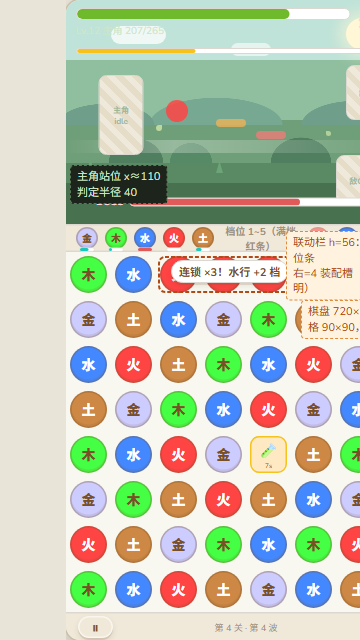
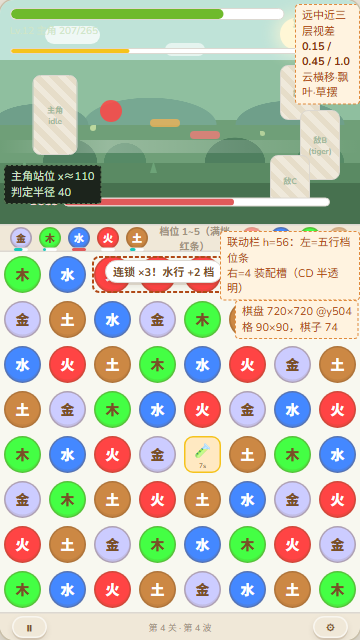
docs(design): 按审核整改瘫痪恢复发射门控与线稿布局

diff --git a/docs/design/ui/05-result.html b/docs/design/ui/05-result.html
@@ -17,18 +17,18 @@
   <div class="callout" style="left:650px;top:150px;">胜利横幅<br>success 绿 + 彩带粒子</div>
 
   <!-- 经验结算卡 -->
-  <div style="position:absolute;left:60px;top:340px;width:600px;height:560px;background:#fff;border:3px solid var(--ai-border);border-radius:var(--radius);box-shadow:var(--clay-shadow-sm);padding:24px;">
+  <div style="position:absolute;left:60px;top:340px;width:600px;height:580px;background:#fff;border:3px solid var(--ai-border);border-radius:var(--radius);box-shadow:var(--clay-shadow-sm);padding:24px;">
     <div style="font-size:30px;font-weight:900;text-align:center;">第 3 关 · 结算</div>
-    <div style="display:flex;justify-content:space-between;font-size:26px;margin-top:20px;"><span>击杀敌人</span><b>129 只</b></div>
-    <div style="display:flex;justify-content:space-between;font-size:26px;margin-top:16px;"><span>最高连锁</span><b>×4</b></div>
-    <div style="display:flex;justify-content:space-between;font-size:26px;margin-top:16px;"><span>击杀经验累计</span><b>+4226 exp</b></div>
-    <div style="display:flex;justify-content:space-between;font-size:26px;margin-top:16px;"><span>通关奖励（50×3）</span><b>+150 exp</b></div>
-    <div style="border-top:2px dashed var(--ai-border);margin-top:24px;padding-top:24px;">
+    <div style="display:flex;justify-content:space-between;font-size:26px;margin-top:14px;"><span>击杀敌人</span><b>129 只</b></div>
+    <div style="display:flex;justify-content:space-between;font-size:26px;margin-top:12px;"><span>最高连锁</span><b>×4</b></div>
+    <div style="display:flex;justify-content:space-between;font-size:26px;margin-top:12px;"><span>击杀经验累计</span><b>+4226 exp</b></div>
+    <div style="display:flex;justify-content:space-between;font-size:26px;margin-top:12px;"><span>通关奖励（50×3）</span><b>+150 exp</b></div>
+    <div style="border-top:2px dashed var(--ai-border);margin-top:16px;padding-top:16px;">
       <div style="display:flex;justify-content:space-between;font-size:28px;"><span><b>Lv.12 → 16</b></span><b style="color:var(--ai-warning);">连升 4 级</b></div>
       <div class="bar exp" style="margin-top:12px;"><i style="width:31%"></i></div>
-      <div style="font-size:22px;color:var(--ai-text-2nd);margin-top:8px;">升级回满 HP · 共得 4376，扣 831/937/1048/1162 → Lv.16 余 398 · 距 Lv.17 还需 882（条 31%）</div>
+      <div style="font-size:20px;color:var(--ai-text-2nd);margin-top:8px;">升级回满 HP · 共得 4376，扣 831/937/1048/1162 → Lv.16 余 398 · 距 Lv.17 还需 882（条 31%）</div>
     </div>
-    <div class="ph" style="height:70px;margin-top:14px;font-size:22px;">升级动效占位（金光 / 弹跳）</div>
+    <div class="ph" style="height:56px;margin-top:14px;font-size:22px;">升级动效占位（金光 / 弹跳）</div>
   </div>
 
   <!-- 解锁提示 -->
@@ -60,13 +60,13 @@
 
   <div style="position:absolute;left:90px;top:130px;width:540px;height:150px;background:var(--ai-error);border-radius:var(--radius);box-shadow:var(--clay-shadow);display:flex;align-items:center;justify-content:center;color:#fff;font-size:64px;font-weight:900;letter-spacing:12px;border:4px solid rgba(255,255,255,.6);">战 败</div>
 
-  <div style="position:absolute;left:60px;top:340px;width:600px;height:460px;background:#fff;border:3px solid var(--ai-border);border-radius:var(--radius);box-shadow:var(--clay-shadow-sm);padding:32px;">
+  <div style="position:absolute;left:60px;top:340px;width:600px;height:430px;background:#fff;border:3px solid var(--ai-border);border-radius:var(--radius);box-shadow:var(--clay-shadow-sm);padding:24px;">
     <div style="font-size:30px;font-weight:900;text-align:center;">第 4 关 · 第 6 波</div>
-    <div style="display:flex;justify-content:space-between;font-size:26px;margin-top:28px;"><span>本局击杀</span><b>53 只</b></div>
-    <div style="display:flex;justify-content:space-between;font-size:26px;margin-top:16px;"><span>本局获得经验</span><b>+1884 exp（保留）</b></div>
-    <div style="display:flex;justify-content:space-between;font-size:26px;margin-top:16px;"><span>剩余主角 HP</span><b style="color:var(--ai-error);">0</b></div>
-    <div class="ph" style="height:130px;margin-top:28px;font-size:24px;">鼓励文案占位<br>（「练到 Lv.14 再来挑战！」）</div>
-    <div style="font-size:22px;color:var(--ai-text-2nd);margin-top:20px;">失败无惩罚：等级/经验/解锁全部保留（D14）</div>
+    <div style="display:flex;justify-content:space-between;font-size:26px;margin-top:20px;"><span>本局击杀</span><b>53 只</b></div>
+    <div style="display:flex;justify-content:space-between;font-size:26px;margin-top:14px;"><span>本局获得经验</span><b>+1884 exp（保留）</b></div>
+    <div style="display:flex;justify-content:space-between;font-size:26px;margin-top:14px;"><span>剩余主角 HP</span><b style="color:var(--ai-error);">0</b></div>
+    <div class="ph" style="height:110px;margin-top:20px;font-size:24px;">鼓励文案占位<br>（「练到 Lv.14 再来挑战！」）</div>
+    <div style="font-size:22px;color:var(--ai-text-2nd);margin-top:14px;">失败无惩罚：等级/经验/解锁全部保留（D14）</div>
   </div>
 
   <div class="btn" style="position:absolute;left:110px;top:870px;width:500px;height:110px;font-size:36px;">再战一次</div>

diff --git a/docs/design/ui/03-loadout.html b/docs/design/ui/03-loadout.html
@@ -27,16 +27,16 @@
   </div>
 
   <!-- 出战信息 -->
-  <div style="position:absolute;left:460px;top:140px;right:32px;height:330px;background:var(--ai-bg-2nd);border:3px solid var(--ai-border);border-radius:var(--radius);padding:20px;">
+  <div style="position:absolute;left:460px;top:140px;right:32px;height:352px;background:var(--ai-bg-2nd);border:3px solid var(--ai-border);border-radius:var(--radius);padding:20px;">
     <div style="font-size:28px;font-weight:900;">出战信息</div>
-    <div style="font-size:22px;line-height:1.7;margin-top:12px;">
+    <div style="font-size:20px;line-height:1.35;margin-top:10px;">
       关卡：第 4 关 · 雾隐山道<br>
       波次：10 波，第 10 波为关底 Boss<br>
       敌人：slime / fox / zombie /<br>
       　　　snake / tiger<br>
       建议等级：Lv.30+
     </div>
-    <div class="chip" style="margin-top:8px;font-size:20px;">⚠ 等级低于建议</div>
+    <div class="chip" style="margin-top:10px;font-size:20px;">⚠ 等级低于建议</div>
   </div>
 
   <!-- 4 装配槽（D6） -->

diff --git a/docs/changelog.md b/docs/changelog.md
@@ -13,3 +13,6 @@
 - M1 三消棋盘可玩原型完成：`index.html` + `scripts/{core/{loop,layout,input},board/{grid,items,engine},ui/render,main}.js`（720×1280 纯 Canvas，状态机 IDLE/SWAPPING/REBOUND/RESOLVING/FALLING/PARALYZED，mulberry32 固定种子，消除/连锁/下落补位/四连五连掉落消耗品/10s 超时/死局恢复链）。单测 `tests/board.test.mjs` 11/11 通过（`node --test`），含终态一致性与固定种子回归。浏览器端经 CDP（Edge 155 --remote-debugging-port + Node WebSocket 直连）验证：模块加载、render()、五行棋子色像素命中、pointer 拖拽交换与消除动画全通，无页面异常。
 - 环境坑（重要）：Python 3.14 `http.server` 在 Windows 上 `.js` 返回 `text/plain`（mimetypes 读注册表被污染），浏览器 module script 被 MIME 校验拒绝 → 页面全黑 + `Failed to fetch dynamically imported module`，Node 单测却全绿，极难定位。已改用 `node .tmp/dev-server.mjs`（端口 8932，显式 text/javascript）。另：本机 Edge `--dump-dom` 对 http URL 输出 0 字节、`--headless=new` 截图静默不写盘；浏览器内错误读取统一走 CDP `Runtime.evaluate`。
 - M1 原型部署 GitHub Pages:仓库 https://github.com/Luckybbbbb/ycfs3-ssww(公开),站点 https://luckybbbbb.github.io/ycfs3-ssww/。分两笔提交(docs(design) 设计文档与线稿 / feat(board) M1 原型与单测),Pages 源 master 根目录,页面与模块 JS 经服务端验证可达(GitHub Pages 的 .js MIME 正确,无本地 python http.server 污染问题)。调试残留 probe*.html 已删除,.tmp/ 不入库。
+- 按 REQ-SSWW-DESIGN-v0.1-05 审核（RULING=REJECTED，一 P1 + 三 P2）整改：瘫痪态补齐无道具恢复出口（02 第 8 节/FR-2.6：瘫痪态道具倒计时继续 + 每 2s 定时重试一轮无上限，无道具死局注入例 seed=7/42/99 实测 2.00s 恢复，M1 engine 同步实现并新增单测，12/12 通过）；03 文档 4.6 自动释放条件补档位门控（发射=CD 就绪且档位≥1 且目标存活），Boss 例补「0.75~2.00 火行重新充至 5 档」前提与「档位 0 不发射」对照例；min/max 视口截图重摄（根因：Edge 最小窗宽 clamp 致 --window-size=360 失效，改 CDP deviceMetricsOverride mobile:false 精确视口，min 图满幅 8 列与底栏完整）；03-loadout 出战信息面板（188px 内容宽折行溢出，字号 20/行高 1.35/面板 352）与 05-result 胜利卡（高度 580/动效块 56）、失败卡（430/padding 24）布局修复，全部经 CDP 布局断言（内容底<面板底<相邻元素顶），4 张截图按 manifest 口径重摄并核对 SHA。
+- 按 REQ-SSWW-DESIGN-v0.1-06 审核（RULING=REJECTED，两 P2 + 一计数更正）整改：02 文档第 7 节状态机图补 PARALYZED 一等状态与自循环转移、第 7/8 节统一洗牌触发入口（普通死局=IDLE 终态校验；瘫痪态重试=PARALYZED 内部转移不经过 IDLE，失败保留下一轮定时触发），FR-2.6 同步；max 视口截图重摄（根因：同文档 #fit hash 变更为 fragment 导航不重新执行 fit 脚本，URL 加 cache-bust 强制完整加载；CDP 实测 phone/inner 1440×2560 scale(2)、底栏 y2448~2560、棋子 148px=74×2）；候选变化计数下轮起按 11 变/14 不变口径。
+- REQ-SSWW-DESIGN-v0.1-07 裁决 **RULING=APPROVED**（receipt validation=PASS、cli_exit_code=0，session 01a1438c 全程 RESUME）：设计文档批次 v0.1（25 项候选）正式作为后续开发依据；数值仍按草案管理，体感与实现效果在 M1/M2 验收，M5 完成正式布局回归。审核链 ycfs3-design-v0.1 共 7 轮（01 REJECTED → 02 REJECTED → 03 REJECTED → 04 传输失败 → 05 REJECTED → 06 REJECTED → 07 APPROVED）。

diff --git a/docs/design/ui/preview/manifest.md b/docs/design/ui/preview/manifest.md
@@ -6,13 +6,13 @@
 |---|---|---|
[11 lines of base64/hex data omitted]
 
-fit 模式已核验：min 图底栏（视口 y612~640）与棋盘右缘完整可见；max 图全视口渲染。DPR=1（headless 默认）。
+fit 模式已核验（REQ-05 整改后重摄，CDP setDeviceMetricsOverride mobile:false 精确 360×640/1440×2560，规避 Edge 最小窗宽 clamp——此前 --window-size=360 被抬升致 66px 偏移与右列裁切）：min 图左缘 x=0 即棋盘底色（无偏移）、8 列棋子与底栏（视口 y612~640）完整、右缘 x=359 在画布内；max 图全视口渲染。DPR=1。主图（01~05）为窗口 1600×1500 正常浏览模式整页（含全部状态卡与说明栏）。
 
[1 lines of base64/hex data omitted]
 

diff --git a/docs/design/03-主角技能设计.md b/docs/design/03-主角技能设计.md
@@ -112,7 +112,7 @@ CD 未就绪 → 档位保留，继续累积（封顶 5）
 
 ### 4.6 击杀边界数字例（TDD 第 14 条；直接伤害与含元素能力完整伤害分开标注）
 
-- 时间基准（全文统一）：敌人停在停位距主角 450px；弹速 600 → **飞行 0.75s**；CD 就绪且目标存活即发射（发射后 0.75s 命中）；周期跳伤在**全局整秒边界**结算（t=1,2,3…），灼烧存活才生效；同刻顺序=命中 → 跳伤 → 自动释放（4.4 节）。
+- 时间基准（全文统一）：敌人停在停位距主角 450px；弹速 600 → **飞行 0.75s**；自动释放条件 = **CD 就绪 且 对应元素档位 ≥1 且 目标存活**（发射后 0.75s 命中）；**档位门控与 CD 门控并列缺一不可**——每次发射消耗该元素全部档位（充能清零，4.1 节），若发射后至下次判定前该元素无新的消除充能，即使 CD 就绪也**不发射**（档位 0）。周期跳伤在**全局整秒边界**结算（t=1,2,3…），灼烧存活才生效；同刻顺序=命中 → 跳伤 → 自动释放（4.4 节）。
 - 第 1 关第 1 波 slime：`HP = 30×1.0×(1+0×0.12) = 30`。
 - **直接伤害边界**（Lv1 ATK 10，火弹 tier1=10/发）：3 发直接 30 ≥ 30 → **3 发**；2 发 20 不足。
 - **灼烧改变发数的例**（Lv1 火弹 tier3=24/发，灼烧 DPS 3 → 每秒跳 round(3)=3，灼烧时长 3s）：
@@ -128,11 +128,14 @@ CD 未就绪 → 档位保留，继续累积（封顶 5）
 
 | 时刻 | 阶段 | 事件 | Boss 剩余 HP |
 |---|---|---|---|
-| 0.00 | 发射 | 第 1 弹出发 | 187 |
+| 0.00 | 发射 | 第 1 弹出发（火档位 5 → 清零） | 187 |
 | 0.75 | 命中 | −87，灼烧挂上 | 100 |
+| 0.75~2.00 | 充能 | 玩家消除使火行重新充至 5 档（**第 2 弹发射前提**） | — |
 | 1.00 | 跳伤 | −10 | 90 |
-| 2.00 | 跳伤+发射 | −10（余 80）；CD 就绪，第 2 弹发射 | 80 |
+| 2.00 | 跳伤+发射 | −10（余 80）；CD 就绪**且火档位 ≥1（已充至 5）**，第 2 弹发射（火档位再清零） | 80 |
 | 2.75 | 命中 | −87 → 累计 194 ≥ 187，**击杀** | 0 |
+
+**对照例（档位门控生效）**：同参数下若 0.75~2.00 之间火行**无任何消除**（火档位保持 0），则 t=2.00 即使 CD 就绪也**不发射**——第 2 弹延迟到下一次火行消除充能 ≥1 后的判定时刻；期间仅靠灼烧跳伤（t=3.00 −10 → Boss 剩 70）。本例即「CD 就绪但档位 0 → 不发射」的对照。
 
 若不计灼烧：第 3 弹 t=4.75 命中累计 261 才够 → 3 发直接。
 

diff --git a/docs/design/01-需求拆分.md b/docs/design/01-需求拆分.md
@@ -49,8 +49,8 @@
 - **验收**：道具三态（在场/使用/超时）表现正确；使用回血/无敌/CD 加速效果数值与 02 文档第 6 节一致。
 
 ### FR-2.6 死局
-- 无任何可行交换 → 自动洗牌（保留道具格），洗牌后仍死局重洗。
-- **验收**：构造死局触发洗牌提示，洗牌后存在可行交换。
+- 无任何可行交换 → 自动洗牌（保留道具格），洗牌后仍死局重洗；洗牌 3 次 + 重生成 50 次均失败进瘫痪态。瘫痪态是独立状态（非 IDLE），其内部有**两条必然存在的恢复转移**：任一道具超时移除即时重试 + 每 2s 定时重试一轮（无次数上限，重试失败留在瘫痪态并保留下一次触发；恢复成功经瘫痪态→IDLE 出口，见 02 文档第 7/8 节）。
+- **验收**：构造死局触发洗牌提示，洗牌后存在可行交换；无道具瘫痪盘（(行+列)%5 注入例）在定时重试下于有限轮内恢复到「无现成匹配 + 存在合法交换」终态（实测数字例见 02 文档第 8 节）。
 
 ## FR-3 技能系统（联动核心）
 
